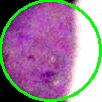
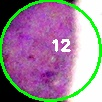
weewwww

Changed region(s): [[0.5, 0.3529, 0.7059, 0.5294]]

diff --git a/circledetector.py b/circledetector.py
@@ -25,8 +25,13 @@ img = cv2.cvtColor(img, cv2.COLOR_BGR2GRAY)
 img = cv2.medianBlur(img, 5)
 # finds the circles in the grayscale image using the Hough transform
 circles = cv2.HoughCircles(image=img, method=cv2.HOUGH_GRADIENT, dp=1,
-                            minDist=300, param1=40, param2=23,minRadius=50, maxRadius=60)
+                            minDist=300, param1=40, param2=23,minRadius=45, maxRadius=60)
+print(circles)
 
+# contours = circles[0][:].argsort(axis=0)
+contours = np.sort(circles[0][:], axis=0)
+# contours = sorted(circles, key = lambda x: x[0][:])
+print(contours)
 
 for co, i in enumerate(circles[0, :], start=1):
     # draw the outer circle
@@ -34,7 +39,7 @@ for co, i in enumerate(circles[0, :], start=1):
     print(i[0])
     print(i[1])
     print(i[2])
-#     cv2.putText(cimg,str(co),(int(i[0]),int(i[1])),cv2.FONT_HERSHEY_SIMPLEX, 0.5,(255,255,255),2)
+    cv2.putText(cimg,str(co),(int(i[0]),int(i[1])),cv2.FONT_HERSHEY_SIMPLEX, 0.5,(255,255,255),2)
     cv2.circle(cimg,(int(i[0]),int(i[1])),int(i[2]),(0,255,0),2)
     # draw the center of the circle
     # cv2.circle(cimg,(int(i[0]),int(i[1])),2,(0,0,255),3)

diff --git a/pyimagesearch1/contours.py b/pyimagesearch1/contours.py
@@ -9,6 +9,7 @@ import numpy as np
 # args = vars(ap.parse_args())
 # path = 'shapes_and_colors.jpg'
 path = '90ppmafter2mins.jpg'
+path = '0ppm,0,seconds.png'
 # image = cv2.imread(args[image])
 image = cv2.imread(path)
 
@@ -31,7 +32,7 @@ thresh = cv2.threshold(blurred, 100, 255, cv2.THRESH_BINARY)[1]
 
 #the original image will be masked with thresholded image so that the paper sensor will have a black background
 masked = cv2.bitwise_and(image,image, mask=thresh)
-print(image.shape)
+# print(image.shape)
 
 cv2.imshow('Original',image)
 cv2.imshow('Resized',resized)
@@ -43,7 +44,7 @@ cv2.waitKey(0)
 cnts = cv2.findContours(thresh.copy(),cv2.RETR_EXTERNAL,
     cv2.CHAIN_APPROX_SIMPLE)
 cnts = imutils.grab_contours(cnts)
-
+print(cnts)
 #for loop over the contours
 for c in cnts:
     #compute the center of the contour

diff --git a/color_identification.py b/color_identification.py
@@ -124,11 +124,11 @@ def show_selected_images(images,ref_img, color, threshold, colors_to_match):
     print(dE2000)
     return dE76, dE2000
 
-ref_img= get_image('square7.jpg')
-ref_color = get_colors(get_image('square7.jpg'),1,True)
+ref_img= get_image('square1.jpg')
+ref_color = get_colors(get_image('square1.jpg'),1,True)
 print(ref_color)
 
-IMAGE_DIRECTORY = 'images'
+IMAGE_DIRECTORY = 'roi2'
 COLORS = {
     'GREEN': [0,128,0],
     'BLUE': [0,0,128],

diff --git a/hsv.py b/hsv.py
@@ -110,7 +110,7 @@ def get_images_from_a_folder(path):
 
 
 
-IMAGE_DIRECTORY = 'images'
+IMAGE_DIRECTORY = 'roi2'
 images ,hsvs,gray, ppm_values = get_images_from_a_folder(IMAGE_DIRECTORY)
 
 bgr_Means = []

diff --git a/colourfulness.py b/colourfulness.py
@@ -1,3 +1,4 @@
+
 # import the necessary packages
 from imutils import build_montages
 from imutils import paths
